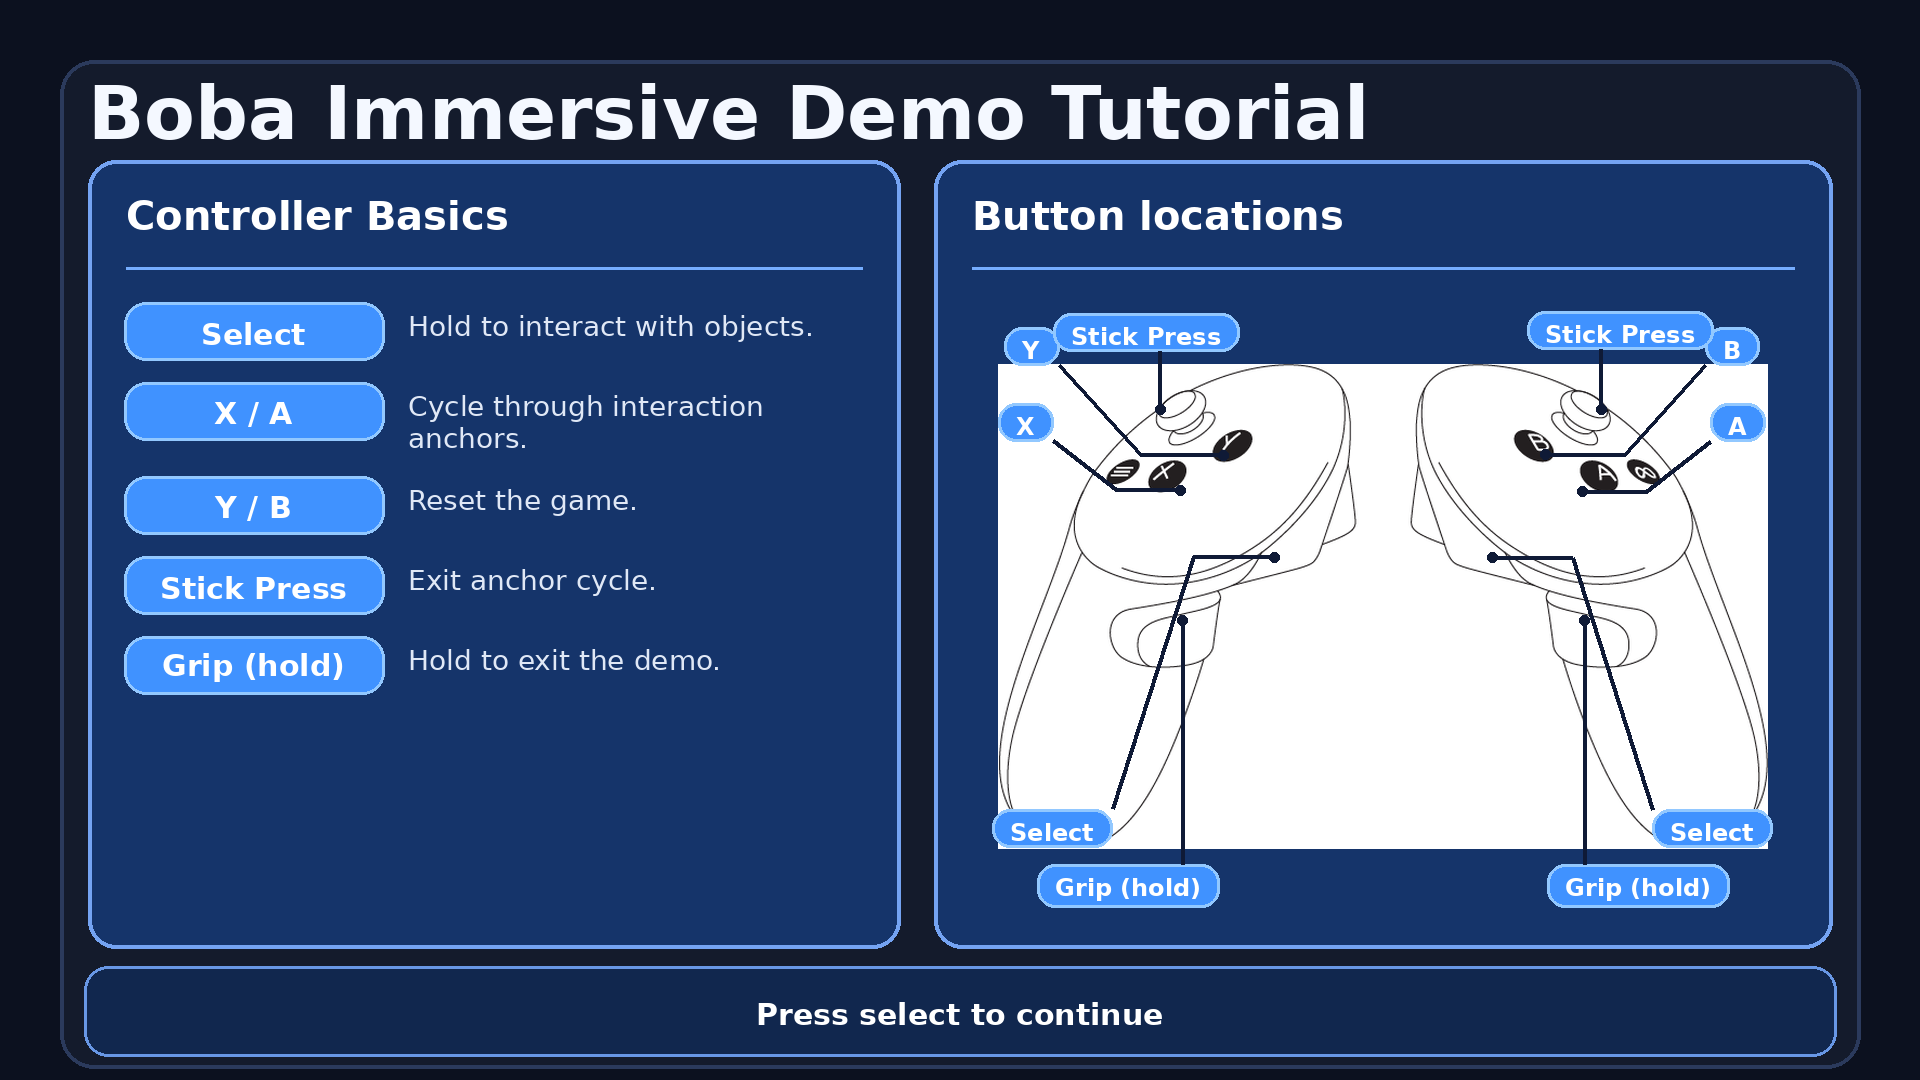
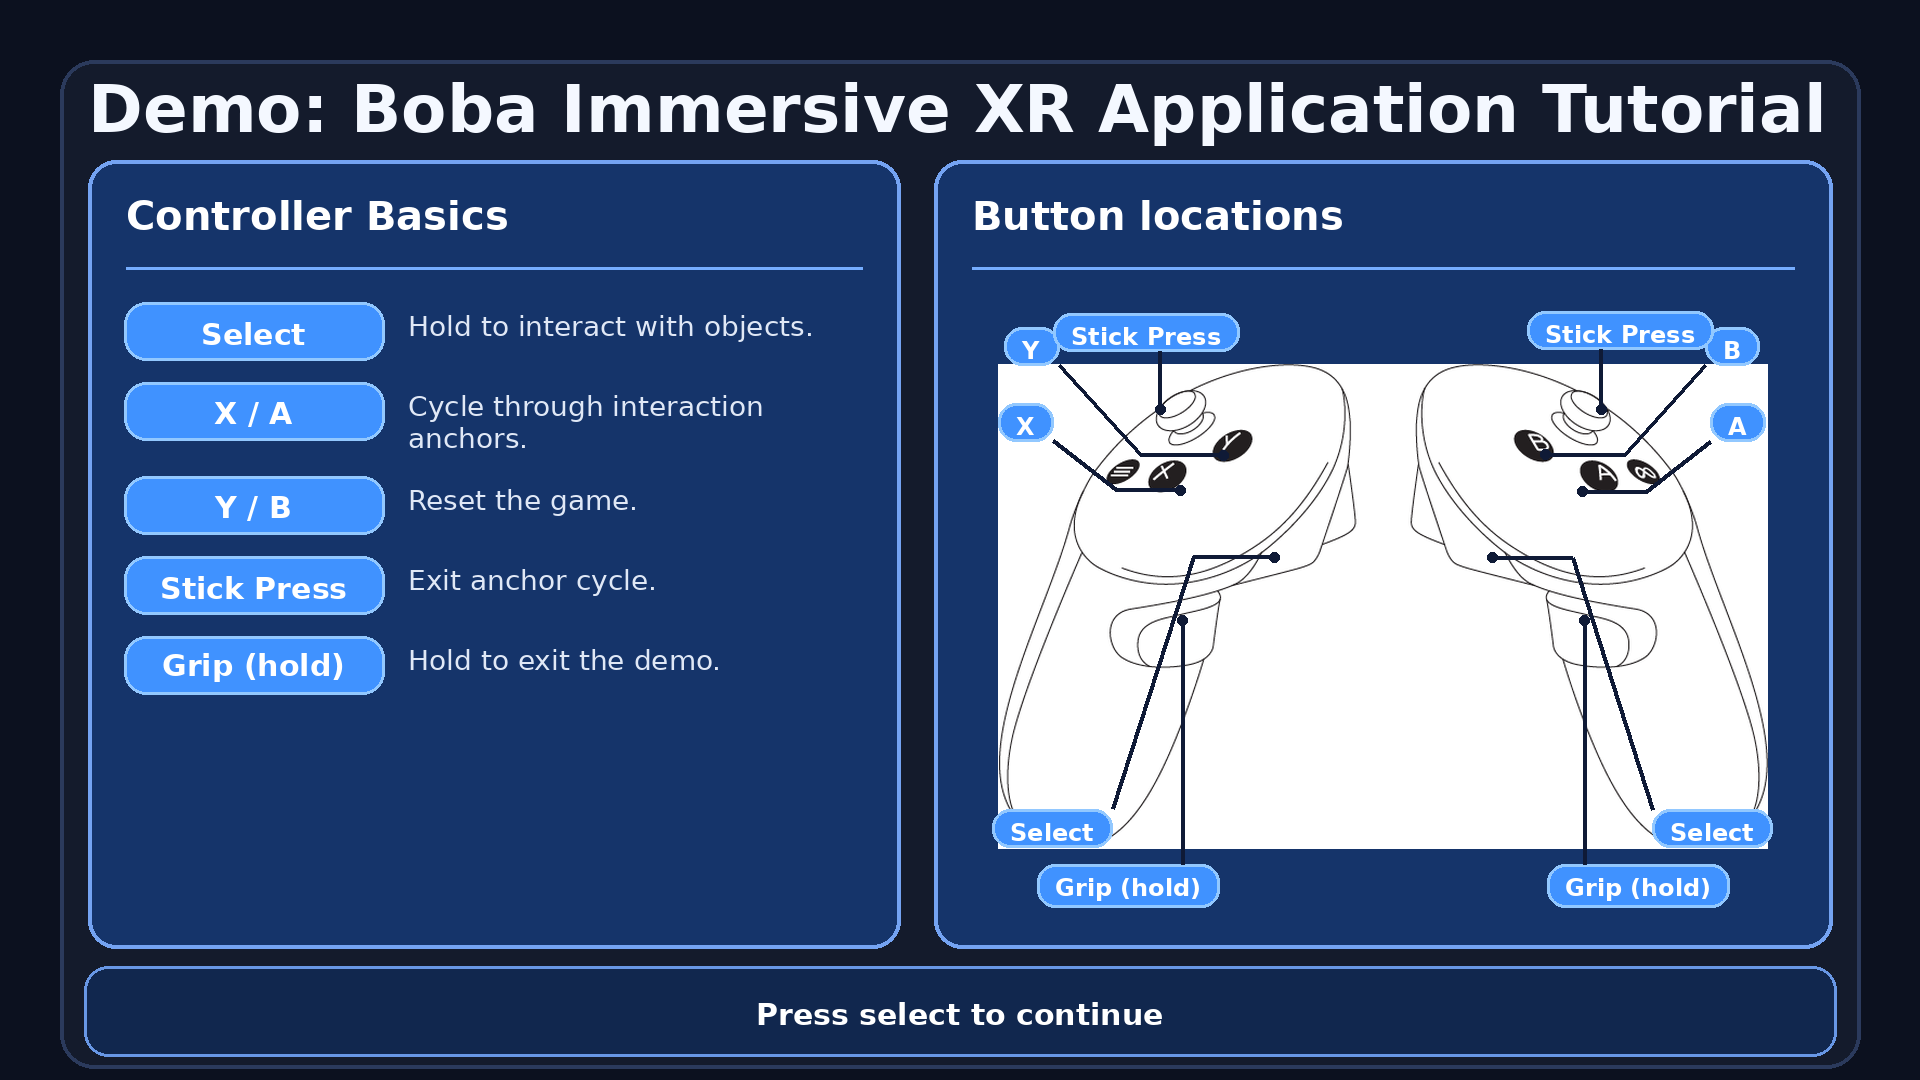
Rename immersive XR demo display

Changed region(s): [[0.0312, 0.0611, 0.9688, 0.1528]]

diff --git a/qqtt/quest_display.py b/qqtt/quest_display.py
@@ -29,6 +29,7 @@ from qqtt.live_openxr import (
 
 
 class OpenXRFramePanelMirror:
+    DISPLAY_NAME = "Demo: Boba Immersive XR Application"
     HEADER_STRUCT = struct.Struct("<8sIIIIIIQQII8x")
     HEADER_MAGIC = b"BOBAQST1"
     HEADER_VERSION = 2
@@ -316,7 +317,7 @@ class OpenXRFramePanelMirror:
         self._stdout_thread.start()
         self._stderr_thread.start()
         print(
-            f"[quest_display] started Boba Immersive Demo pid={self.process.pid} "
+            f"[quest_display] started {self.DISPLAY_NAME} pid={self.process.pid} "
             f"shared_frame={self.shared_frame_path}",
             flush=True,
         )
@@ -350,7 +351,7 @@ class OpenXRFramePanelMirror:
         time.sleep(0.5)
         if self.process.poll() is not None:
             raise RuntimeError(
-                "Boba Immersive Demo exited during startup.\n" + self.debug_summary()
+                f"{self.DISPLAY_NAME} exited during startup.\n" + self.debug_summary()
             )
         self._start_stage_commit_thread()
 
@@ -414,7 +415,7 @@ class OpenXRFramePanelMirror:
         }
         publish_start = time.perf_counter()
         if self._shared_mmap is None:
-            raise RuntimeError("Boba Immersive Demo shared buffer is not initialized.")
+            raise RuntimeError(f"{self.DISPLAY_NAME} shared buffer is not initialized.")
         if frame_rgba.shape != (self.height, self.width, self.channels):
             raise ValueError(
                 f"Quest mirror frame shape {tuple(frame_rgba.shape)} != "
@@ -426,7 +427,7 @@ class OpenXRFramePanelMirror:
         if self.process is not None and self.process.poll() is not None:
             if not self._exit_logged:
                 print(
-                    "[quest_display] Boba Immersive Demo exited unexpectedly; "
+                    f"[quest_display] {self.DISPLAY_NAME} exited unexpectedly; "
                     "disabling Quest publishing for this run.\n"
                     + self.debug_summary(),
                     flush=True,
@@ -2066,7 +2067,7 @@ class OpenXRFramePanelMirror:
                     return sample
                 if self.process is not None and self.process.poll() is not None:
                     raise RuntimeError(
-                        "Boba Immersive Demo exited before producing controller data.\n"
+                        f"{self.DISPLAY_NAME} exited before producing controller data.\n"
                         + self.debug_summary()
                     )
                 remaining = deadline - time.monotonic()
@@ -2092,7 +2093,7 @@ class OpenXRFramePanelMirror:
                     return sample
                 if self.process is not None and self.process.poll() is not None:
                     raise RuntimeError(
-                        "Boba Immersive Demo exited while waiting for a newer sample.\n"
+                        f"{self.DISPLAY_NAME} exited while waiting for a newer sample.\n"
                         + self.debug_summary()
                     )
                 remaining = deadline - time.monotonic()

diff --git a/linux_pose_probe/openxr_frame_panel.cpp b/linux_pose_probe/openxr_frame_panel.cpp
@@ -42,12 +42,12 @@ constexpr uint32_t kMinExpectedHeaderVersion = 2;
 constexpr uint32_t kMaxExpectedHeaderVersion = 3;
 constexpr const char* kExpectedSharedFrameMagic = "BOBAQIM1";
 constexpr const char* kBinaryUsageName = "boba_immersive_bridge";
-constexpr const char* kApplicationName = "Boba Immersive Demo";
+constexpr const char* kApplicationName = "Demo: Boba Immersive XR Application";
 #else
 constexpr uint32_t kExpectedHeaderVersion = 2;
 constexpr const char* kExpectedSharedFrameMagic = "BOBAQST1";
 constexpr const char* kBinaryUsageName = "boba_immersive_demo";
-constexpr const char* kApplicationName = "Boba Immersive Demo";
+constexpr const char* kApplicationName = "Demo: Boba Immersive XR Application";
 #endif
 constexpr float kPanelDistanceMeters = 1.1f;
 constexpr float kPanelWidthMeters = 1.2f;
@@ -2744,9 +2744,8 @@ int main(int argc, char** argv) {
     glfwWindowHint(GLFW_CONTEXT_VERSION_MINOR, 6);
     glfwWindowHint(GLFW_OPENGL_PROFILE, GLFW_OPENGL_CORE_PROFILE);
 
-    GLFWwindow* window =
-        glfwCreateWindow(kPanelWindowWidth, kPanelWindowHeight, "Boba Immersive Demo", nullptr,
-                         nullptr);
+    GLFWwindow* window = glfwCreateWindow(kPanelWindowWidth, kPanelWindowHeight,
+                                          kApplicationName, nullptr, nullptr);
     if (window == nullptr) {
         std::cerr << "glfwCreateWindow failed.\n";
         glfwTerminate();

diff --git a/assets/tutorial/generate_tutorial_slides.py b/assets/tutorial/generate_tutorial_slides.py
@@ -178,7 +178,16 @@ def draw_page_surface(draw: ImageDraw.ImageDraw):
 
 
 def draw_title(draw: ImageDraw.ImageDraw, text: str):
-    draw.text((OUTER_MARGIN + TITLE_OFFSET_X, OUTER_MARGIN + TITLE_OFFSET_Y), text, font=TITLE_FONT, fill=TITLE_COLOR)
+    title_x = OUTER_MARGIN + TITLE_OFFSET_X
+    max_width = SLIDE_WIDTH - title_x - OUTER_MARGIN
+    title_font = TITLE_FONT
+    if text_size(draw, text, title_font)[0] > max_width:
+        for size in range(72, 47, -2):
+            candidate_font = load_font(size, bold=True)
+            if text_size(draw, text, candidate_font)[0] <= max_width:
+                title_font = candidate_font
+                break
+    draw.text((title_x, OUTER_MARGIN + TITLE_OFFSET_Y), text, font=title_font, fill=TITLE_COLOR)
 
 
 def draw_footer(draw: ImageDraw.ImageDraw, text: str):
@@ -706,7 +715,7 @@ def make_slide() -> tuple[Image.Image, ImageDraw.ImageDraw]:
 
 def slide_one() -> Image.Image:
     image, draw = make_slide()
-    draw_title(draw, "Boba Immersive Demo Tutorial")
+    draw_title(draw, "Demo: Boba Immersive XR Application Tutorial")
 
     left_rect = (OUTER_MARGIN + 28, CONTENT_TOP, 900, CONTENT_TOP + CONTENT_HEIGHT)
     right_rect = (934, CONTENT_TOP, SLIDE_WIDTH - OUTER_MARGIN - 28, CONTENT_TOP + CONTENT_HEIGHT)
